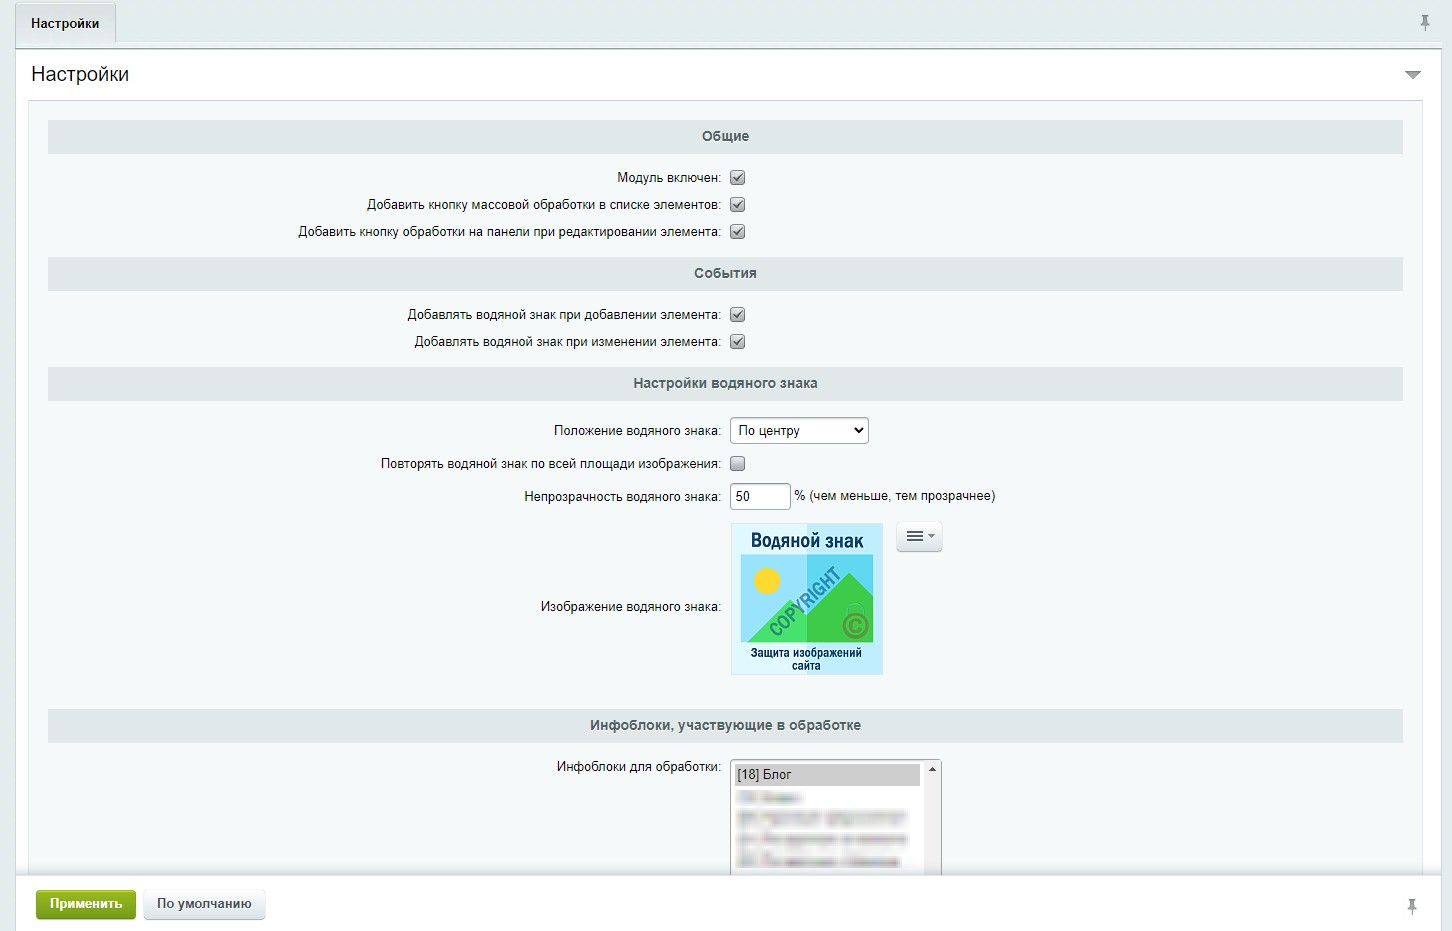
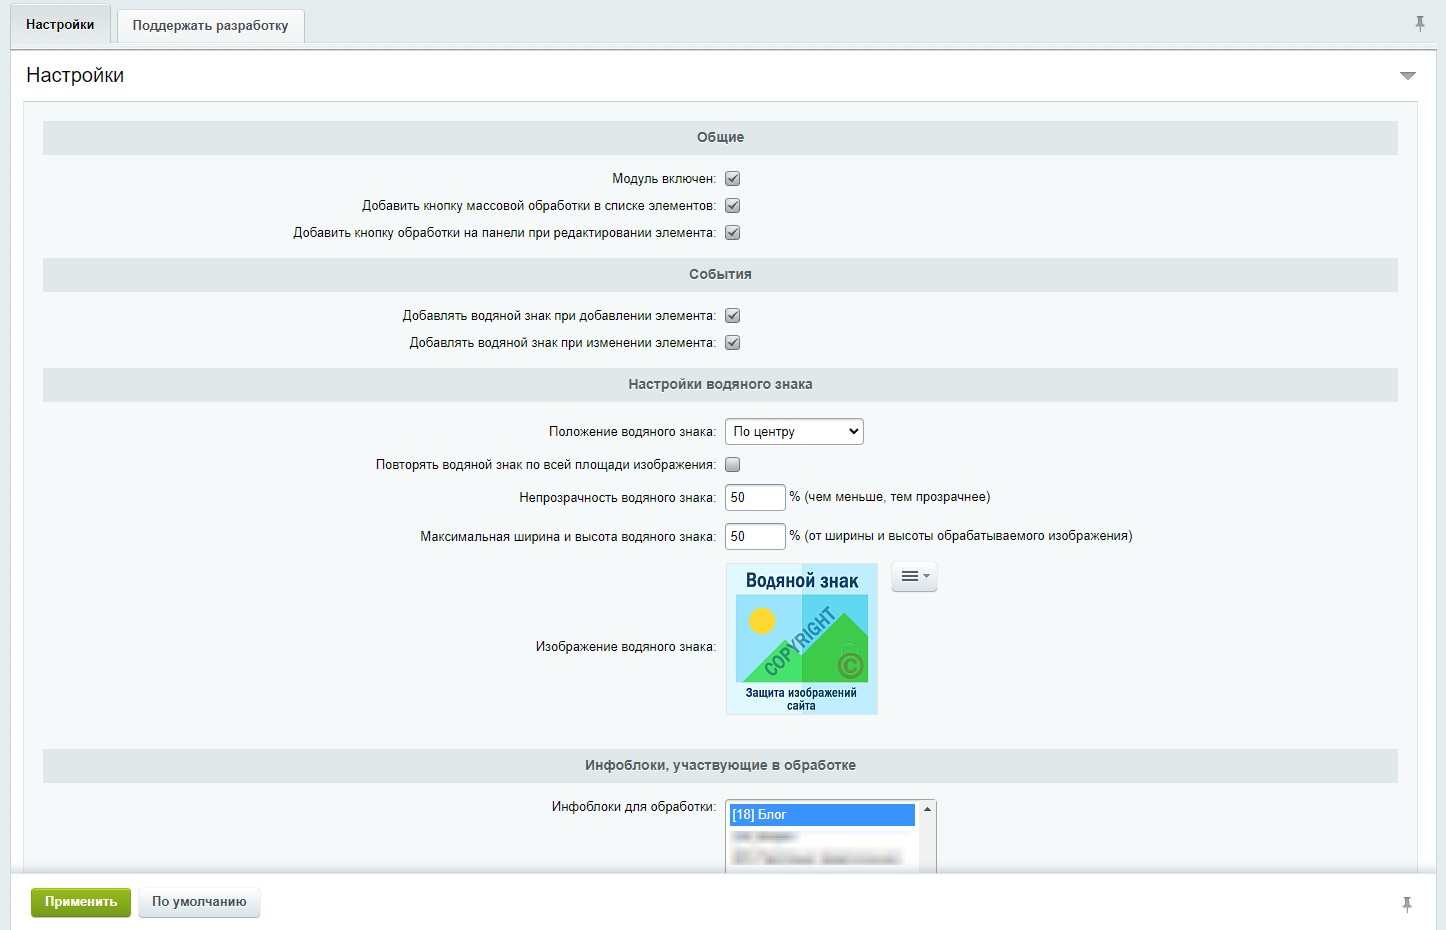
version 1.2.2

diff --git a/lib/classes/Watermark.php b/lib/classes/Watermark.php
@@ -18,18 +18,18 @@ class Watermark
         }
     }
 
-    public static function addWaterMarkByPropName($propName, $allElementInfo)
+    public static function addWatermarkByPropName($propName, $allElementInfo)
     {
         Helpers::includeModules('iblock');
 
         $imgIDs = Helpers::arrayWrap($allElementInfo['PROPS'][$propName]['VALUE']);
 
-        foreach ($imgIDs as $imgID) {
-            if (WatermarkedImages::isImageWaterMarked($imgID)) {
+        foreach ($imgIDs as $imgId) {
+            if (WatermarkedImages::isImageWaterMarked($imgId)) {
                 continue;
             }
 
-            $imageWithMark = self::getWaterMarkArray($imgID);
+            $imageWithMark = self::getWatermarkArray($imgId);
 
             $newFile = CFile::MakeFileArray($imageWithMark['src']);
             $newID = CFile::SaveFile($newFile, 'iblock');
@@ -37,13 +37,13 @@ class Watermark
 
             CIBlockElement::SetPropertyValueCode($allElementInfo['FIELDS']['ID'], $propName, $newFileArray);
 
-            CFile::Delete($imgID);
+            CFile::Delete($imgId);
 
             WatermarkedImages::addWatermarkedImage($newID);
         }
     }
 
-    public static function addWaterMarkByFieldName($fieldName, $allElementInfo)
+    public static function addWatermarkByFieldName($fieldName, $allElementInfo)
     {
         Helpers::includeModules('iblock');
 
@@ -58,7 +58,7 @@ class Watermark
             return;
         }
 
-        $imageWithMark = self::getWaterMarkArray($imgID);
+        $imageWithMark = self::getWatermarkArray($imgID);
 
         $newFile = CFile::MakeFileArray($imageWithMark['src']);
 
@@ -73,22 +73,28 @@ class Watermark
         WatermarkedImages::addWatermarkedImage(Iblock::getElementFieldValue($elementId, $fieldName));
     }
 
-    public static function getWaterMarkArray($imgID)
+    public static function getWatermarkArray($imgId)
     {
+        $maxWmSize = Settings::getWmMaxPercent() / 100;
+        $wmImage = CFile::GetFileArray(Settings::getWatermark());
+        $imgToWm = CFile::GetFileArray($imgId);
+
+        if ($wmImage['WIDTH'] / $imgToWm['WIDTH'] > $maxWmSize || $wmImage['HEIGHT'] / $imgToWm['HEIGHT'] > $maxWmSize) {
+            $wmImage = CFile::ResizeImageGet($wmImage, ['width' => $imgToWm['WIDTH'] * $maxWmSize, 'height' => $imgToWm['HEIGHT'] * $maxWmSize]);
+        }
+
         $arWaterMark = [
             [
                 'name' => 'watermark',
                 'position' => Settings::get('wm_position'),
                 'type' => 'image',
                 'size' => 'real',
-                'file' => $_SERVER['DOCUMENT_ROOT'] . Settings::getWatermarkPath(),
+                'file' => $_SERVER['DOCUMENT_ROOT'] . array_change_key_case($wmImage)['src'],
                 'fill' => Settings::yes('wm_is_repeat') ? 'repeat' : 'exact',
-                'alpha_level' => (int)Settings::get('wm_alpha') ?: 50
+                'alpha_level' => Settings::getWmAlpha(),
             ]
         ];
 
-        $img = CFile::GetFileArray($imgID);
-
-        return CFile::ResizeImageGet($img, ['width' => $img['WIDTH'], 'height' => $img['HEIGHT']], BX_RESIZE_IMAGE_PROPORTIONAL, true, $arWaterMark);
+        return CFile::ResizeImageGet($imgToWm, ['width' => $imgToWm['WIDTH'], 'height' => $imgToWm['HEIGHT']], BX_RESIZE_IMAGE_PROPORTIONAL, true, $arWaterMark);
     }
 }

diff --git a/lib/classes/Settings.php b/lib/classes/Settings.php
@@ -48,14 +48,39 @@ class Settings
         return $elementsIds ? Helpers::arrayTrimExplode($elementsIds) : [];
     }
 
+    public static function getWatermark()
+    {
+        return self::get('wm_image_path');
+    }
+
     public static function getWatermarkPath(): ?string
     {
-        $wmPath = self::get('wm_image_path');
+        $wmPath = self::getWatermark();
 
         if (is_numeric($wmPath)) {
             $wmPath = CFile::GetPath($wmPath);
         }
 
         return $wmPath;
+    }
+
+    public static function getWmAlpha()
+    {
+        return self::getCheckPercentValue((int)Settings::get('wm_alpha'));
+    }
+
+    public static function getWmMaxPercent()
+    {
+        return self::getCheckPercentValue((int)Settings::get('wm_max_percent'));
+    }
+
+    private static function getCheckPercentValue($val)
+    {
+        if (!$val) return 50;
+
+        if ($val < 0) $val = 0;
+        if ($val > 100) $val = 100;
+
+        return $val;
     }
 }

diff --git a/lib/classes/Events.php b/lib/classes/Events.php
@@ -37,7 +37,7 @@ class Events
 
     public static function OnAfterIBlockElementAddUpdate($arFields, $operation)
     {
-        if (!Settings::yes('switch_on') || !Settings::getWatermarkPath()) {
+        if (!Settings::yes('switch_on') || !Settings::getWatermark()) {
             return;
         }
 
@@ -83,12 +83,12 @@ class Events
             if ($isProp) {
                 $propName = substr($field, strlen($propPrefix));
 
-                Watermark::addWaterMarkByPropName($propName, $elementInfo);
+                Watermark::addWatermarkByPropName($propName, $elementInfo);
             } else {
                 if ($elementInfo['FIELDS'][$field]) {
                     Helpers::sessionAddElementId($elementId);
 
-                    Watermark::addWaterMarkByFieldName($field, $elementInfo);
+                    Watermark::addWatermarkByFieldName($field, $elementInfo);
                 }
             }
         }

diff --git a/install/index.php b/install/index.php
@@ -185,6 +185,7 @@ class sl3w_watermark extends CModule
         Settings::set('switch_on', 'Y');
         Settings::set('add_watermark_btn_mass_switch_on', 'Y');
         Settings::set('wm_alpha', 50);
+        Settings::set('wm_max_percent', 50);
         Settings::set('event_add_switch_on', 'Y');
         Settings::set('event_update_switch_on', 'Y');
     }

diff --git a/install/version.php b/install/version.php
@@ -1,6 +1,6 @@
 <?php
 
 $arModuleVersion = [
-    'VERSION' => '1.2.1',
-    'VERSION_DATE' => '2023-02-13 00:00:00'
+    'VERSION' => '1.2.2',
+    'VERSION_DATE' => '2023-03-11 00:00:00'
 ];
